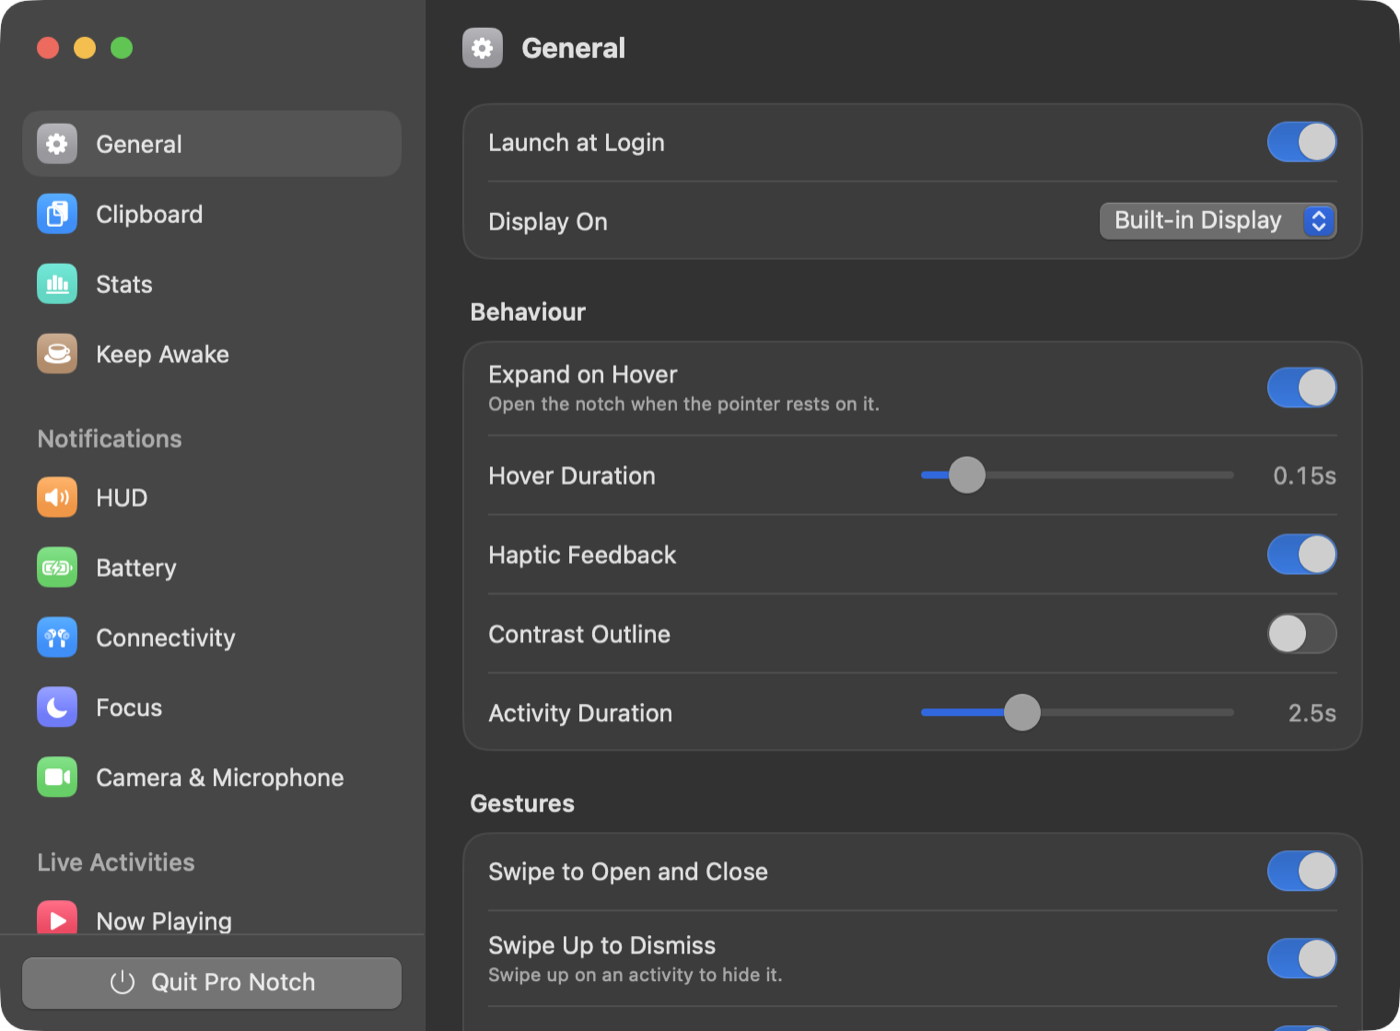
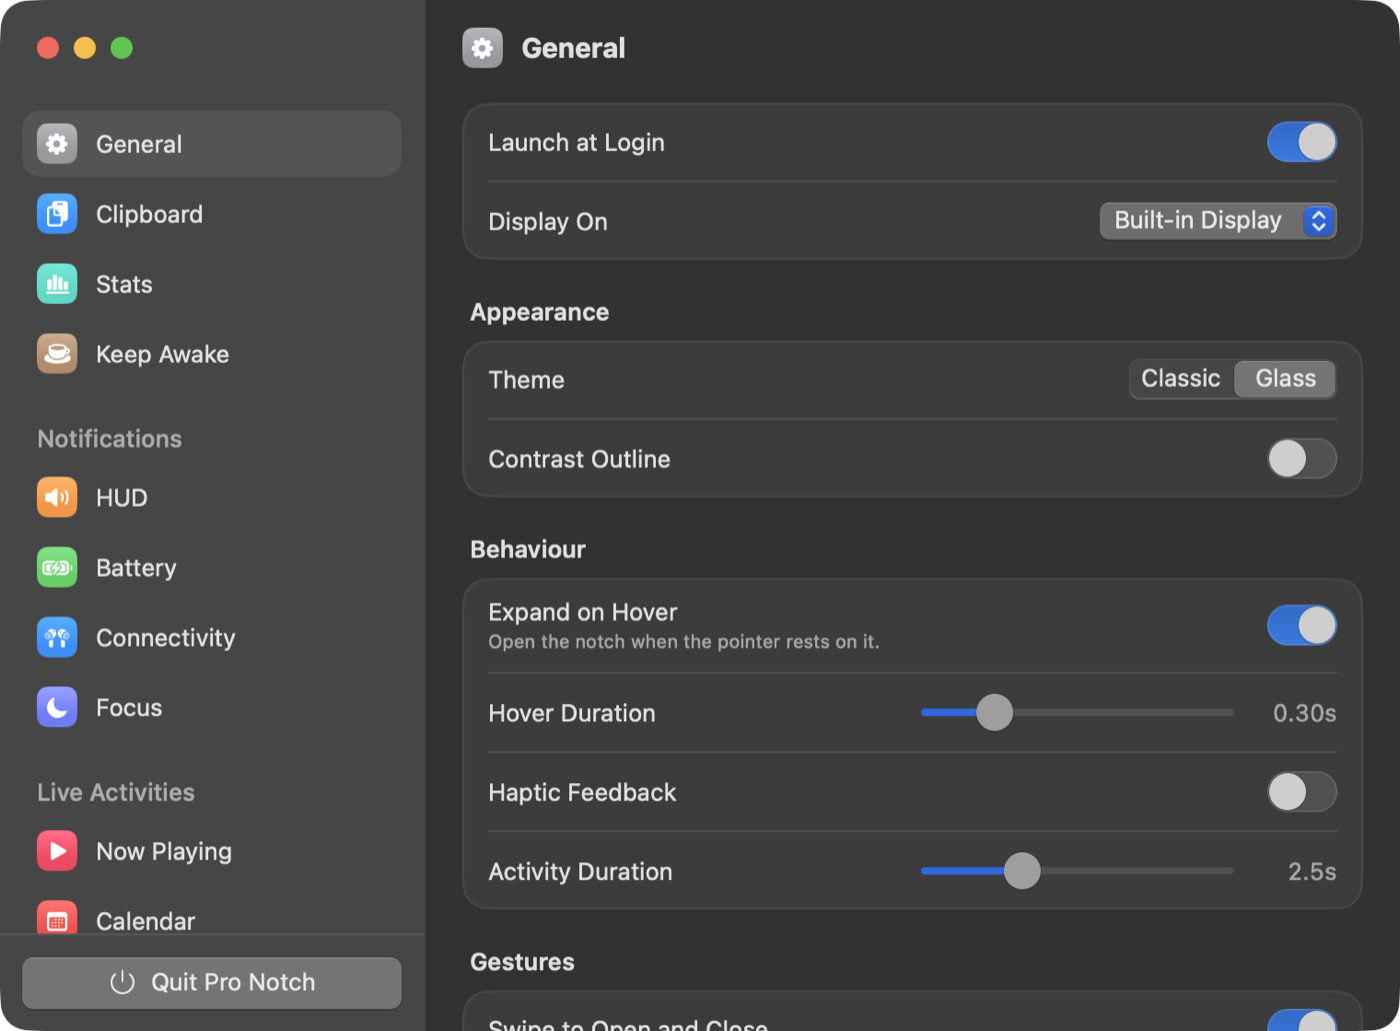
Show the Glass theme in the README: island and General settings screenshots, intro and theme bullet

diff --git a/README.md b/README.md
@@ -21,7 +21,7 @@
 
 ---
 
-Pro Notch turns the MacBook notch into a black island that grows to show what's happening. Hover over it to open it, swipe it closed, and it stays out of the way the rest of the time. It's a native SwiftUI app for macOS 15 and later. On Macs without a notch it draws a simulated one.
+Pro Notch turns the MacBook notch into an island that grows to show what's happening, in solid black or in glass that lets your screen show through. Hover over it to open it, swipe it closed, and it stays out of the way the rest of the time. It's a native SwiftUI app for macOS 15 and later. On Macs without a notch it draws a simulated one.
 
 ## Features
 
@@ -49,9 +49,11 @@ Pro Notch turns the MacBook notch into a black island that grows to show what's 
 - Opens on hover or with a swipe, skips tracks with sideways swipes, and gives haptic feedback.
 - Hides in fullscreen apps, in Mission Control and from screen recordings if you want.
 - Works on your built-in display or any display you choose.
-- Two looks: the classic black island, or glass that blurs what's behind it (**Settings → General**).
+- Two themes: **Classic**, a solid black island, or **Glass**, which grows out of the notch and blurs what's behind it (**Settings → General → Theme**).
 
 ## Screenshots
+
+Home, Calendar and Stats are shown in the Glass theme; Classic is the same island in solid black.
 
 <p align="center"><img src="docs/screenshots/island-home.png" width="720" alt="Island with the Now Playing player"></p>
 
